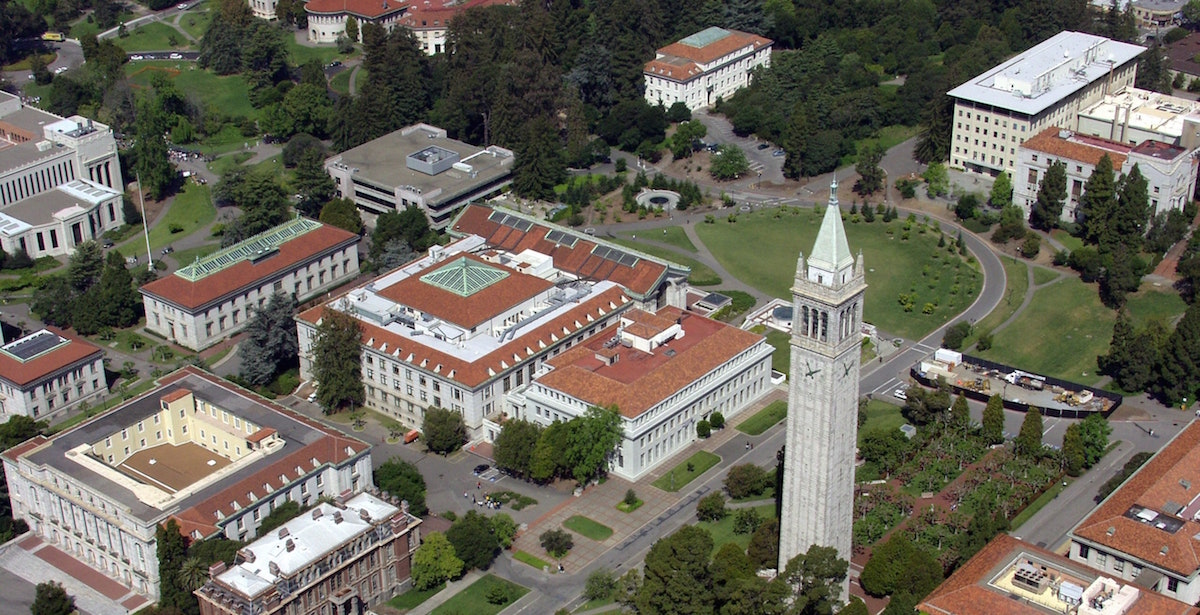
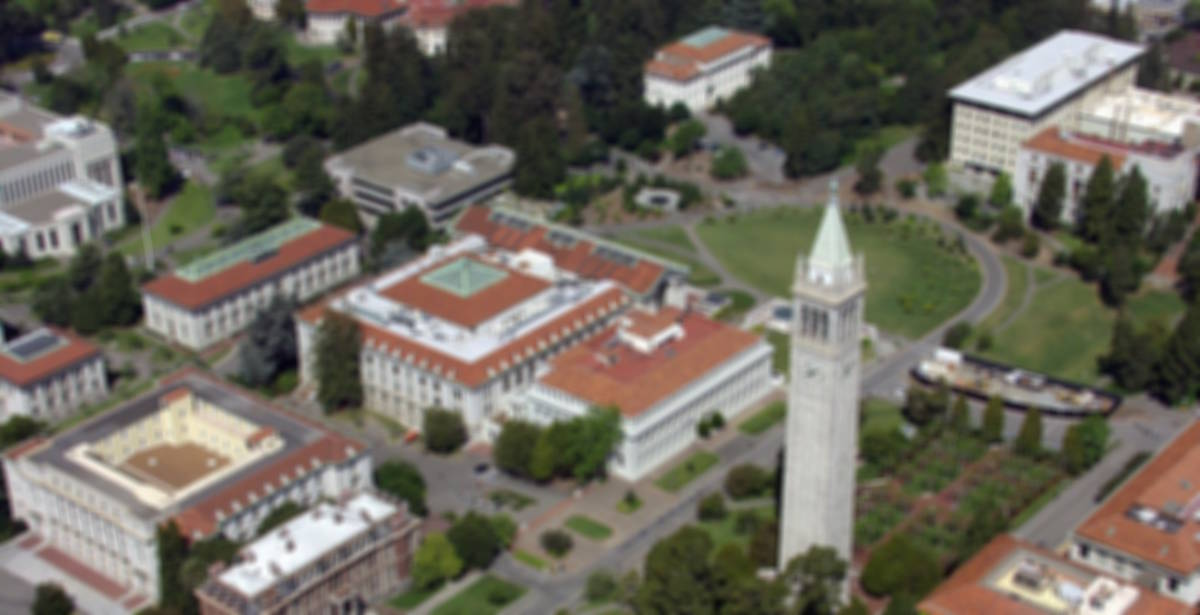
fixed firefox z-index; used native blur

diff --git a/app/assets/stylesheets/home.css.scss b/app/assets/stylesheets/home.css.scss
@@ -33,6 +33,7 @@
     position: fixed;
     left: 0px;
     top: 0px;
+    z-index: -1;
     // pseudo-make image edges be defined
     height: 100%;
     width: 100%;
@@ -40,15 +41,12 @@
     .main-top-bg {
       height: 100%;
       transform: scale(1.1);
-      z-index: -1;
       background: linear-gradient(to bottom, lighten(rgba(254, 218, 138, 0.8), 20%) 0%,
                                              lighten(rgba(254, 218, 138, 0.35), 20%) 100%), 
                                              url("engineering2-min.jpg") no-repeat center center;
       -moz-background-size: cover;
       -o-background-size: cover;
       background-size: cover;
-      -webkit-filter: blur(4px);
-      filter: blur(4px);
     }
   }
   .main-title {
@@ -67,7 +65,6 @@
     margin-right: auto;
     width: 100%;
     max-width: 800px;
-    -webkit-filter: blur(0px);
     .main-top-info {
       text-align: left;
       float: left;
